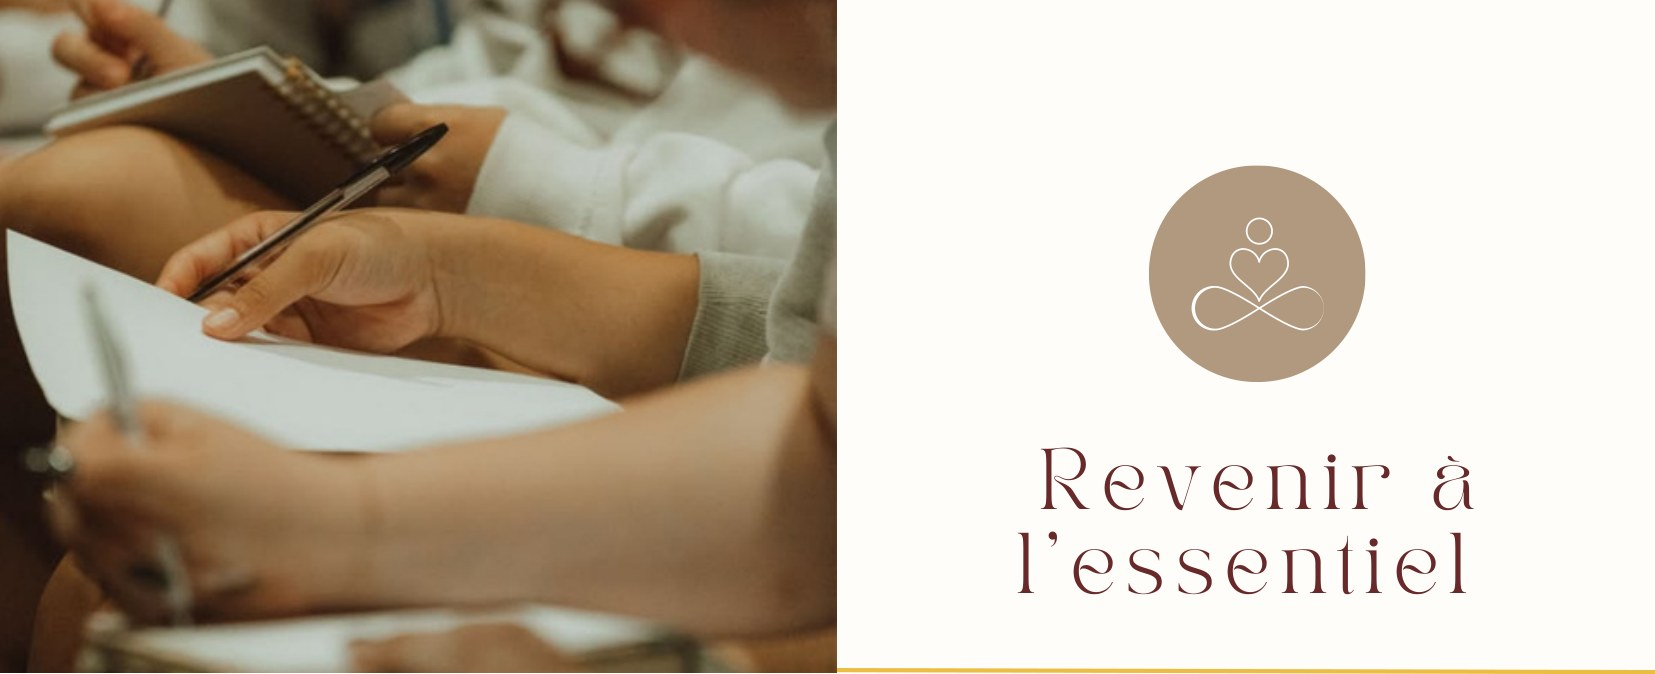
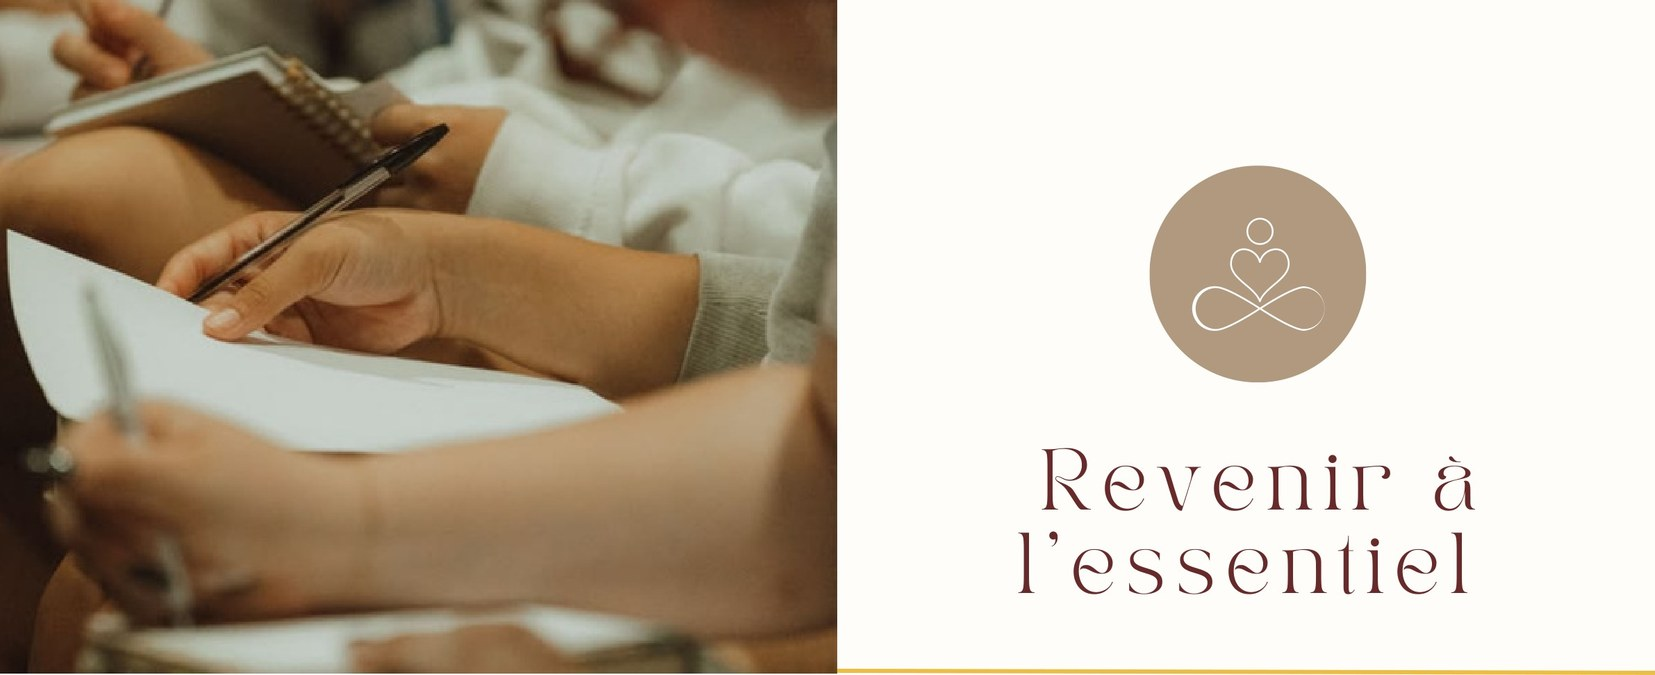
Sejours : miniatures entieres de Jade + le visuel coiffe la page detail
- Miniatures Manoir et Plessis re-extraites completes depuis les PDF de Jade
  (dossier VISUELS), blanc de page rogne, plus rien de coupe.
- Pages sejour : le visuel signe remplace la photo de facade en en-tete
  (variante .r-hero-v), infos date/lieu/public dans une bande dessous.
- Manoir : photo de la salle aux chaises retiree de la galerie et remplacee
  par la salle a manger dans le bloc "Chaque jour".
- Cache CSS bumpe v40 -> v41.

Claude-Session: https://claude.ai/code/session_013LJMtuGhrZoayHpoknafb4

diff --git a/retraite-le-manoir.html b/retraite-le-manoir.html
@@ -8,7 +8,7 @@
 <link rel="preconnect" href="https://fonts.googleapis.com">
 <link rel="preconnect" href="https://fonts.gstatic.com" crossorigin>
 <link href="https://fonts.googleapis.com/css2?family=Cormorant+Garamond:ital,wght@0,300..700;1,300..700&family=Lato:ital,wght@0,300;0,400;0,700;1,400&family=Allison&display=swap" rel="stylesheet">
-<link rel="stylesheet" href="assets/app.css?v=40">
+<link rel="stylesheet" href="assets/app.css?v=41">
 </head>
 <body class="has-sticky">
 <div id="nav-mount"></div>
@@ -17,14 +17,13 @@
   <a href="#reserver" class="btn btn-dark">Je m'inscris</a>
 </div>
 
-<!-- HERO IMAGE -->
-<section class="r-hero">
-  <img src="assets/images/retraites/manoir-facade.jpg" width="1600" height="1066" decoding="async" fetchpriority="high" alt="Le Manoir Ducey">
-  <div class="veil"></div>
-  <div class="ct">
-    <div class="breadcrumb" style="color:rgba(255,255,255,.8)"><a href="retraites.html" style="color:#fff">Les séjours</a> › Le Manoir Ducey</div>
-    <h1>Revenir à l'essentiel</h1>
-    <div class="meta">
+<!-- HERO VISUEL -->
+<section class="r-hero-v">
+  <div class="wrap">
+    <div class="breadcrumb reveal"><a href="retraites.html">Les séjours</a> › Le Manoir Ducey</div>
+    <img class="r-visuel reveal" data-d="1" src="assets/images/retraites/manoir-visuel.jpg" width="1655" height="675" decoding="async" fetchpriority="high" alt="Revenir à l'essentiel, le séjour au Manoir Ducey">
+    <h1 class="sr-only">Revenir à l'essentiel</h1>
+    <div class="r-meta reveal" data-d="2">
       <span><svg class="meta-ico" viewBox="0 0 24 24" aria-hidden="true"><path d="M7 2v2H5a2 2 0 0 0-2 2v13a2 2 0 0 0 2 2h14a2 2 0 0 0 2-2V6a2 2 0 0 0-2-2h-2V2h-2v2H9V2H7zM5 9h14v10H5V9z"/></svg>Du 21 au 25 octobre 2026</span>
       <span><svg class="meta-ico" viewBox="0 0 24 24" aria-hidden="true"><path d="M12 2a7 7 0 0 0-7 7c0 5 7 13 7 13s7-8 7-13a7 7 0 0 0-7-7zm0 9.5A2.5 2.5 0 1 1 12 6.5a2.5 2.5 0 0 1 0 5z"/></svg>Normandie · À 20 minutes du Mont-Saint-Michel</span>
       <span><svg class="meta-ico" viewBox="0 0 24 24" aria-hidden="true"><path d="M16 11a4 4 0 1 0-4-4 4 4 0 0 0 4 4zm-8 0a4 4 0 1 0-4-4 4 4 0 0 0 4 4zm0 2c-2.7 0-8 1.3-8 4v3h10v-3c0-1 .5-1.9 1.3-2.6A12 12 0 0 0 8 13zm8 0c-.4 0-.7 0-1.1.1A5.6 5.6 0 0 1 18 17v3h6v-3c0-2.7-5.3-4-8-4z"/></svg>Places limitées · femmes exclusivement</span>
@@ -63,7 +62,6 @@
         <h2 class="reveal">Le lieu en images</h2>
         <div class="r-gallery trio reveal">
           <div class="g"><img src="assets/images/retraites/manoir-facade.jpg" width="1600" height="1066" loading="lazy" decoding="async" alt="Façade du Manoir Ducey"></div>
-          <div class="g"><img src="assets/images/retraites/manoir-salle.jpg" width="1600" height="1066" loading="lazy" decoding="async" alt="Salle de conférence et d'ateliers du manoir"></div>
           <div class="g"><img src="assets/images/retraites/manoir-chambre-1.jpg" width="1800" height="1200" loading="lazy" decoding="async" alt="Une chambre du Manoir Ducey"></div>
           <div class="g"><img src="assets/images/retraites/manoir-chambre-2.jpg" width="1800" height="1200" loading="lazy" decoding="async" alt="Une autre chambre du Manoir Ducey"></div>
           <div class="g"><img src="assets/images/retraites/manoir-salle-de-bain.jpg" width="1800" height="1200" loading="lazy" decoding="async" alt="Une salle de bain du manoir"></div>
@@ -124,7 +122,7 @@
         </ul>
       </div>
       <div class="col-media media reveal" data-d="1" style="aspect-ratio:4/3">
-        <img src="assets/images/retraites/manoir-salle.jpg" width="1600" height="1066" loading="lazy" decoding="async" alt="La salle d'ateliers du Manoir Ducey">
+        <img src="assets/images/retraites/manoir-salon.jpg" width="1600" height="1066" loading="lazy" decoding="async" alt="La salle à manger et le salon du Manoir Ducey">
       </div>
     </div>
 

diff --git a/retraite-le-plessis.html b/retraite-le-plessis.html
@@ -8,7 +8,7 @@
 <link rel="preconnect" href="https://fonts.googleapis.com">
 <link rel="preconnect" href="https://fonts.gstatic.com" crossorigin>
 <link href="https://fonts.googleapis.com/css2?family=Cormorant+Garamond:ital,wght@0,300..700;1,300..700&family=Lato:ital,wght@0,300;0,400;0,700;1,400&family=Allison&display=swap" rel="stylesheet">
-<link rel="stylesheet" href="assets/app.css?v=40">
+<link rel="stylesheet" href="assets/app.css?v=41">
 </head>
 <body class="has-sticky">
 <div id="nav-mount"></div>
@@ -17,14 +17,13 @@
   <a href="#reserver" class="btn btn-dark">Je m'inscris</a>
 </div>
 
-<!-- HERO IMAGE -->
-<section class="r-hero">
-  <img src="assets/images/retraites/plessis-facade.jpg" width="1600" height="1066" decoding="async" fetchpriority="high" alt="La maison du Plessis-Placy">
-  <div class="veil"></div>
-  <div class="ct">
-    <div class="breadcrumb" style="color:rgba(255,255,255,.8)"><a href="retraites.html" style="color:#fff">Les séjours</a> › Le jour d'après</div>
-    <h1>Le jour d'après</h1>
-    <div class="meta">
+<!-- HERO VISUEL -->
+<section class="r-hero-v">
+  <div class="wrap">
+    <div class="breadcrumb reveal"><a href="retraites.html">Les séjours</a> › Le jour d'après</div>
+    <img class="r-visuel reveal" data-d="1" src="assets/images/retraites/plessis-visuel.jpg" width="1655" height="675" decoding="async" fetchpriority="high" alt="Le jour d'après, le séjour au Plessis-Placy">
+    <h1 class="sr-only">Le jour d'après</h1>
+    <div class="r-meta reveal" data-d="2">
       <span><svg class="meta-ico" viewBox="0 0 24 24" aria-hidden="true"><path d="M7 2v2H5a2 2 0 0 0-2 2v13a2 2 0 0 0 2 2h14a2 2 0 0 0 2-2V6a2 2 0 0 0-2-2h-2V2h-2v2H9V2H7zM5 9h14v10H5V9z"/></svg>Du 18 au 22 novembre 2026</span>
       <span><svg class="meta-ico" viewBox="0 0 24 24" aria-hidden="true"><path d="M12 2a7 7 0 0 0-7 7c0 5 7 13 7 13s7-8 7-13a7 7 0 0 0-7-7zm0 9.5A2.5 2.5 0 1 1 12 6.5a2.5 2.5 0 0 1 0 5z"/></svg>Le Plessis-Placy</span>
       <span><svg class="meta-ico" viewBox="0 0 24 24" aria-hidden="true"><path d="M16 11a4 4 0 1 0-4-4 4 4 0 0 0 4 4zm-8 0a4 4 0 1 0-4-4 4 4 0 0 0 4 4zm0 2c-2.7 0-8 1.3-8 4v3h10v-3c0-1 .5-1.9 1.3-2.6A12 12 0 0 0 8 13zm8 0c-.4 0-.7 0-1.1.1A5.6 5.6 0 0 1 18 17v3h6v-3c0-2.7-5.3-4-8-4z"/></svg>Places limitées · femmes exclusivement</span>

diff --git a/retraites.html b/retraites.html
@@ -8,7 +8,7 @@
 <link rel="preconnect" href="https://fonts.googleapis.com">
 <link rel="preconnect" href="https://fonts.gstatic.com" crossorigin>
 <link href="https://fonts.googleapis.com/css2?family=Cormorant+Garamond:ital,wght@0,300..700;1,300..700&family=Lato:ital,wght@0,300;0,400;0,700;1,400&family=Allison&display=swap" rel="stylesheet">
-<link rel="stylesheet" href="assets/app.css?v=40">
+<link rel="stylesheet" href="assets/app.css?v=41">
 </head>
 <body>
 <div id="nav-mount"></div>
@@ -36,7 +36,7 @@
     <div class="cards two">
       <!-- MANOIR (confirmé) -->
       <a href="retraite-le-manoir.html" class="vcard reveal">
-        <img src="assets/images/retraites/manoir-visuel.jpg" width="1655" height="674" loading="lazy" decoding="async" alt="Revenir à l'essentiel, le séjour au Manoir Ducey">
+        <img src="assets/images/retraites/manoir-visuel.jpg" width="1655" height="675" loading="lazy" decoding="async" alt="Revenir à l'essentiel, le séjour au Manoir Ducey">
         <div class="ct">
           <div class="num">Du 21 au 25 octobre 2026</div>
           <span class="go">Découvrir le séjour →</span>
@@ -44,7 +44,7 @@
       </a>
       <!-- PLESSIS (à venir) -->
       <a href="retraite-le-plessis.html" class="vcard reveal" data-d="1">
-        <img src="assets/images/retraites/plessis-visuel.jpg" width="1655" height="674" loading="lazy" decoding="async" alt="Le jour d'après, le séjour au Plessis-Placy">
+        <img src="assets/images/retraites/plessis-visuel.jpg" width="1655" height="675" loading="lazy" decoding="async" alt="Le jour d'après, le séjour au Plessis-Placy">
         <div class="ct">
           <div class="num">Du 18 au 22 novembre 2026</div>
           <span class="go">Découvrir le séjour →</span>

diff --git a/assets/app.css b/assets/app.css
@@ -293,6 +293,14 @@ h2.big{font-family:var(--serif);font-weight:400;font-size:clamp(2.2rem,4.6vw,3.6
 .r-hero h1{font-family:var(--serif);font-weight:400;font-size:clamp(2.6rem,6vw,4.8rem);line-height:1.02;margin:14px 0}
 .r-hero .meta{display:flex;gap:26px;flex-wrap:wrap;font-size:.9rem;opacity:.94;margin-top:10px}
 .r-hero .meta span{display:inline-flex;align-items:center;gap:7px}
+/* Variante hero « visuel » : le bandeau signé de Jade tient lieu d'en-tête, les infos passent dessous sur le fond crème */
+.r-hero-v{padding:150px 0 0}
+.r-hero-v .breadcrumb{margin-bottom:20px}
+.r-visuel{display:block;width:100%;height:auto;border:1px solid var(--line);border-radius:10px;box-shadow:0 18px 44px -32px rgba(60,40,30,.45)}
+.r-meta{display:flex;gap:26px;flex-wrap:wrap;font-size:.9rem;color:var(--brun);margin-top:26px}
+.r-meta span{display:inline-flex;align-items:center;gap:7px}
+.r-meta .meta-ico{width:17px;height:17px;fill:var(--terra);flex-shrink:0}
+.sr-only{position:absolute;width:1px;height:1px;padding:0;margin:-1px;overflow:hidden;clip:rect(0,0,0,0);white-space:nowrap;border:0}
 .r-body{display:grid;grid-template-columns:1.6fr .9fr;gap:70px;align-items:start}
 .r-main h2{font-family:var(--serif);font-weight:400;font-size:2rem;color:var(--titre);margin:44px 0 18px}
 .r-main p{color:var(--ink);margin-bottom:14px}

diff --git a/conference-dans-ma-valise.html b/conference-dans-ma-valise.html
@@ -8,7 +8,7 @@
 <link rel="preconnect" href="https://fonts.googleapis.com">
 <link rel="preconnect" href="https://fonts.gstatic.com" crossorigin>
 <link href="https://fonts.googleapis.com/css2?family=Cormorant+Garamond:ital,wght@0,300..700;1,300..700&family=Lato:ital,wght@0,300;0,400;0,700;1,400&family=Allison&display=swap" rel="stylesheet">
-<link rel="stylesheet" href="assets/app.css?v=40">
+<link rel="stylesheet" href="assets/app.css?v=41">
 <script type="application/ld+json">
 {"@context":"https://schema.org","@graph":[
 {"@type":"Event","name":"Dans ma valise, il y a… · Lyon","description":"Une initiation pour mieux se comprendre, mieux communiquer et avancer avec soi. Conférence de Jade Maa.","startDate":"2026-11-07T13:00:00+01:00","endDate":"2026-11-07T17:00:00+01:00","eventStatus":"https://schema.org/EventScheduled","eventAttendanceMode":"https://schema.org/OfflineEventAttendanceMode","location":{"@type":"Place","name":"Best Western Plus Hôtel & Spa de Chassieu","address":{"@type":"PostalAddress","streetAddress":"6 avenue du Progrès","postalCode":"69680","addressLocality":"Chassieu","addressCountry":"FR"}},"performer":{"@type":"Person","name":"Jade Maa"},"organizer":{"@type":"Person","name":"Jade Maa","url":"https://jade-maa.com"}},

diff --git a/evenements.html b/evenements.html
@@ -8,7 +8,7 @@
 <link rel="preconnect" href="https://fonts.googleapis.com">
 <link rel="preconnect" href="https://fonts.gstatic.com" crossorigin>
 <link href="https://fonts.googleapis.com/css2?family=Cormorant+Garamond:ital,wght@0,300..700;1,300..700&family=Lato:ital,wght@0,300;0,400;0,700;1,400&family=Allison&display=swap" rel="stylesheet">
-<link rel="stylesheet" href="assets/app.css?v=40">
+<link rel="stylesheet" href="assets/app.css?v=41">
 </head>
 <body>
 <div id="nav-mount"></div>

diff --git a/la-bonne-methode.html b/la-bonne-methode.html
@@ -8,7 +8,7 @@
 <link rel="preconnect" href="https://fonts.googleapis.com">
 <link rel="preconnect" href="https://fonts.gstatic.com" crossorigin>
 <link href="https://fonts.googleapis.com/css2?family=Cormorant+Garamond:ital,wght@0,300..700;1,300..700&family=Lato:ital,wght@0,300;0,400;0,700;1,400&family=Allison&display=swap" rel="stylesheet">
-<link rel="stylesheet" href="assets/app.css?v=40">
+<link rel="stylesheet" href="assets/app.css?v=41">
 </head>
 <body>
 <div id="nav-mount"></div>

diff --git a/le-livre.html b/le-livre.html
@@ -8,7 +8,7 @@
 <link rel="preconnect" href="https://fonts.googleapis.com">
 <link rel="preconnect" href="https://fonts.gstatic.com" crossorigin>
 <link href="https://fonts.googleapis.com/css2?family=Cormorant+Garamond:ital,wght@0,300..700;1,300..700&family=Lato:ital,wght@0,300;0,400;0,700;1,400&family=Allison&display=swap" rel="stylesheet">
-<link rel="stylesheet" href="assets/app.css?v=40">
+<link rel="stylesheet" href="assets/app.css?v=41">
 </head>
 <body>
 <div id="nav-mount"></div>

diff --git a/mentions-legales.html b/mentions-legales.html
@@ -8,7 +8,7 @@
 <link rel="preconnect" href="https://fonts.googleapis.com">
 <link rel="preconnect" href="https://fonts.gstatic.com" crossorigin>
 <link href="https://fonts.googleapis.com/css2?family=Cormorant+Garamond:ital,wght@0,300..700;1,300..700&family=Lato:ital,wght@0,300;0,400;0,700;1,400&family=Allison&display=swap" rel="stylesheet">
-<link rel="stylesheet" href="assets/app.css?v=40">
+<link rel="stylesheet" href="assets/app.css?v=41">
 </head>
 <body>
 <div id="nav-mount"></div>

diff --git a/politique-de-confidentialite.html b/politique-de-confidentialite.html
@@ -8,7 +8,7 @@
 <link rel="preconnect" href="https://fonts.googleapis.com">
 <link rel="preconnect" href="https://fonts.gstatic.com" crossorigin>
 <link href="https://fonts.googleapis.com/css2?family=Cormorant+Garamond:ital,wght@0,300..700;1,300..700&family=Lato:ital,wght@0,300;0,400;0,700;1,400&family=Allison&display=swap" rel="stylesheet">
-<link rel="stylesheet" href="assets/app.css?v=40">
+<link rel="stylesheet" href="assets/app.css?v=41">
 </head>
 <body>
 <div id="nav-mount"></div>

diff --git a/qui-suis-je.html b/qui-suis-je.html
@@ -8,7 +8,7 @@
 <link rel="preconnect" href="https://fonts.googleapis.com">
 <link rel="preconnect" href="https://fonts.gstatic.com" crossorigin>
 <link href="https://fonts.googleapis.com/css2?family=Cormorant+Garamond:ital,wght@0,300..700;1,300..700&family=Lato:ital,wght@0,300;0,400;0,700;1,400&family=Allison&display=swap" rel="stylesheet">
-<link rel="stylesheet" href="assets/app.css?v=40">
+<link rel="stylesheet" href="assets/app.css?v=41">
 </head>
 <body>
 <div id="nav-mount"></div>

diff --git a/index.html b/index.html
@@ -8,7 +8,7 @@
 <link rel="preconnect" href="https://fonts.googleapis.com">
 <link rel="preconnect" href="https://fonts.gstatic.com" crossorigin>
 <link href="https://fonts.googleapis.com/css2?family=Cormorant+Garamond:ital,wght@0,300..700;1,300..700&family=Lato:ital,wght@0,300;0,400;0,700;1,400&family=Allison&display=swap" rel="stylesheet">
-<link rel="stylesheet" href="assets/app.css?v=40">
+<link rel="stylesheet" href="assets/app.css?v=41">
 </head>
 <body class="home">
 
